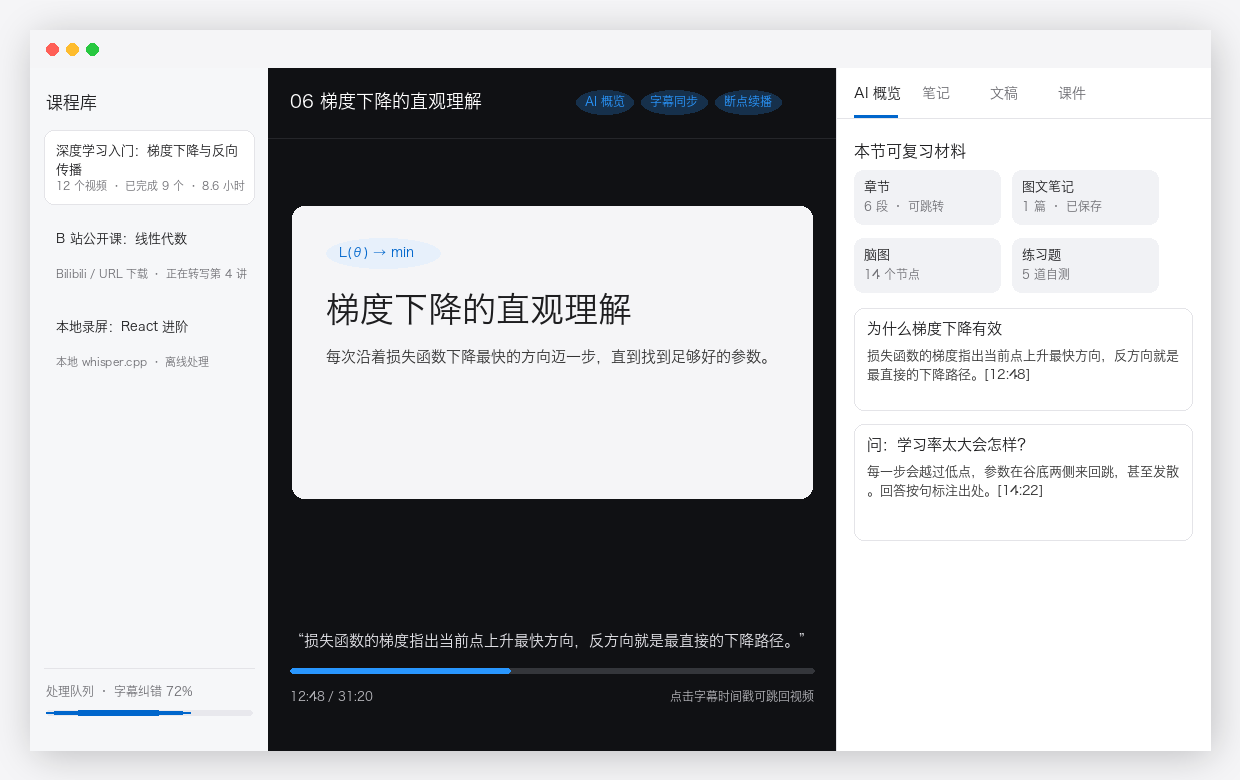
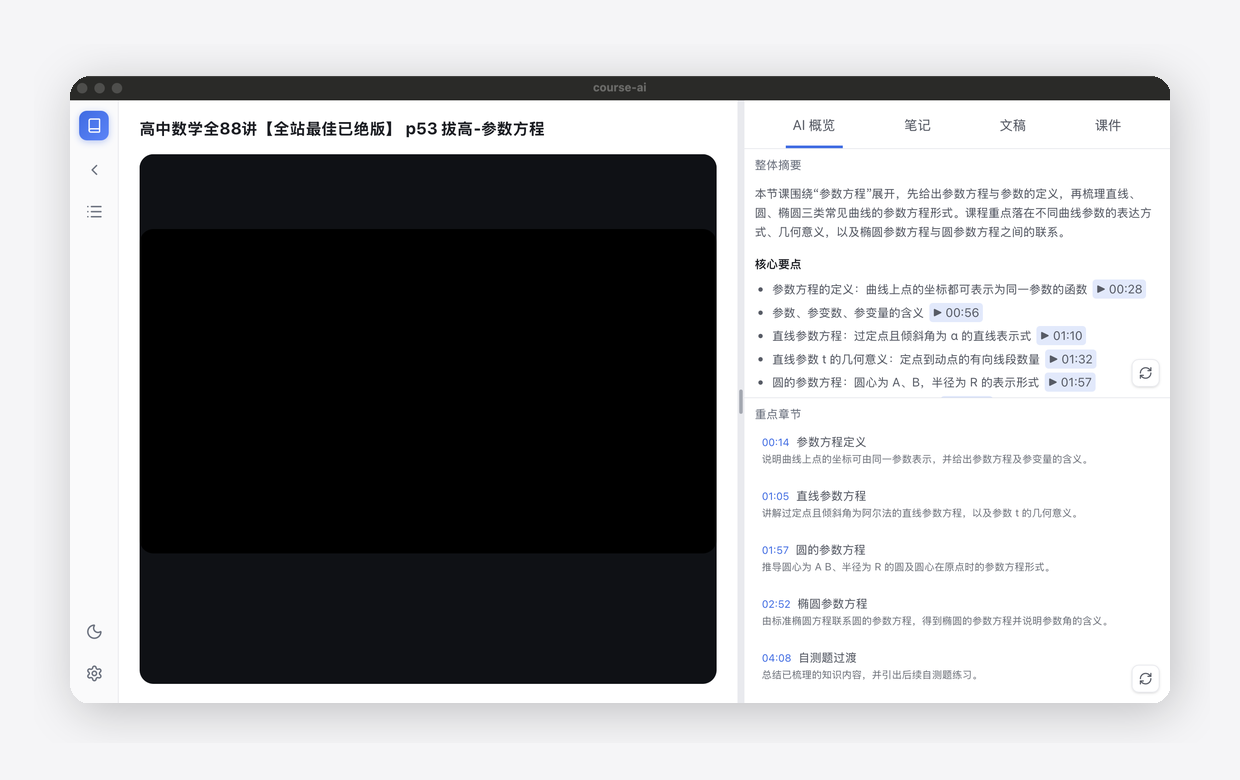
feat(site): use real product screenshots

diff --git a/website/generate_mock_screenshots.py b/website/generate_mock_screenshots.py
@@ -1,254 +1,99 @@
 from __future__ import annotations
 
 from pathlib import Path
-from textwrap import wrap
 
 from PIL import Image, ImageDraw, ImageFilter, ImageFont
 
 
 ROOT = Path(__file__).resolve().parent
-FONT_REGULAR = "/System/Library/Fonts/Hiragino Sans GB.ttc"
-FONT_DISPLAY = "/System/Library/Fonts/Hiragino Sans GB.ttc"
-FONT_MONO = "/System/Library/Fonts/SFNSMono.ttf"
-
-PRIMARY = "#0066cc"
-PRIMARY_DARK = "#2997ff"
-INK = "#1d1d1f"
-MUTED = "#6e6e73"
-CANVAS = "#ffffff"
+REAL = ROOT / "real-screenshots"
 PARCHMENT = "#f5f5f7"
-LINE = "#e4e4e8"
-SOFT = "#f1f2f5"
-BLACK_PANEL = "#101114"
+TILE = "#272729"
+INK = "#1d1d1f"
+PRIMARY = "#0066cc"
+FONT = "/System/Library/Fonts/Hiragino Sans GB.ttc"
 
 
-def font(size: int, weight: str = "regular") -> ImageFont.FreeTypeFont:
-    path = FONT_DISPLAY if weight == "display" else FONT_REGULAR
-    if weight == "mono":
-        path = FONT_MONO
-    return ImageFont.truetype(path, size)
+def face(size: int) -> ImageFont.FreeTypeFont:
+    return ImageFont.truetype(FONT, size)
 
 
-def rounded(draw: ImageDraw.ImageDraw, box, radius: int, fill, outline=None, width: int = 1):
-    draw.rounded_rectangle(box, radius=radius, fill=fill, outline=outline, width=width)
+def cover(image: Image.Image, size: tuple[int, int]) -> Image.Image:
+    image = image.convert("RGB")
+    scale = max(size[0] / image.width, size[1] / image.height)
+    resized = image.resize((round(image.width * scale), round(image.height * scale)), Image.Resampling.LANCZOS)
+    left = (resized.width - size[0]) // 2
+    top = (resized.height - size[1]) // 2
+    return resized.crop((left, top, left + size[0], top + size[1]))
 
 
-def text(draw: ImageDraw.ImageDraw, xy, value: str, size: int, fill=INK, weight: str = "regular", anchor=None):
-    draw.text(xy, value, font=font(size, weight), fill=fill, anchor=anchor)
+def contain(image: Image.Image, max_size: tuple[int, int]) -> Image.Image:
+    image = image.convert("RGB")
+    scale = min(max_size[0] / image.width, max_size[1] / image.height)
+    return image.resize((round(image.width * scale), round(image.height * scale)), Image.Resampling.LANCZOS)
 
 
-def wrap_by_width(value: str, face: ImageFont.FreeTypeFont, max_width: int) -> list[str]:
-    lines: list[str] = []
-    current = ""
-    for char in value:
-        candidate = current + char
-        if current and draw_probe.textlength(candidate, font=face) > max_width:
-            lines.append(current)
-            current = char
-        else:
-            current = candidate
-    if current:
-        lines.append(current)
-    return lines
-
-
-draw_probe = ImageDraw.Draw(Image.new("RGB", (1, 1)))
-
-
-def wrapped_text(draw: ImageDraw.ImageDraw, xy, value: str, size: int, max_width: int, fill=INK, spacing: int = 6):
+def paste_with_shadow(canvas: Image.Image, image: Image.Image, xy: tuple[int, int], radius: int = 28) -> None:
     x, y = xy
-    face = font(size)
-    for line in wrap_by_width(value, face, max_width):
-        draw.text((x, y), line, font=font(size), fill=fill)
-        y += size + spacing
-    return y
-
-
-def shadowed_window(size=(1180, 720), radius=18):
-    w, h = size
-    pad = 34
-    shadow = Image.new("RGBA", (w + pad * 2, h + pad * 2), (0, 0, 0, 0))
-    mask = Image.new("L", (w + pad * 2, h + pad * 2), 0)
-    mdraw = ImageDraw.Draw(mask)
-    mdraw.rounded_rectangle((pad, pad, pad + w, pad + h), radius=radius, fill=255)
-    blur = mask.filter(ImageFilter.GaussianBlur(18))
+    shadow = Image.new("RGBA", (image.width + 80, image.height + 80), (0, 0, 0, 0))
+    mask = Image.new("L", shadow.size, 0)
+    mask_draw = ImageDraw.Draw(mask)
+    mask_draw.rounded_rectangle((40, 40, 40 + image.width, 40 + image.height), radius=radius, fill=255)
+    blurred = mask.filter(ImageFilter.GaussianBlur(22))
     shadow_draw = ImageDraw.Draw(shadow)
-    shadow_draw.bitmap((3, 5), blur, fill=(0, 0, 0, 56))
-    window = Image.new("RGBA", (w, h), CANVAS)
-    shadow.alpha_composite(window, (pad, pad))
-    return shadow
+    shadow_draw.bitmap((4, 8), blurred, fill=(0, 0, 0, 55))
+
+    rounded = Image.new("RGBA", image.size, (0, 0, 0, 0))
+    rounded_mask = Image.new("L", image.size, 0)
+    rounded_draw = ImageDraw.Draw(rounded_mask)
+    rounded_draw.rounded_rectangle((0, 0, image.width, image.height), radius=radius, fill=255)
+    rounded.paste(image.convert("RGBA"), (0, 0), rounded_mask)
+
+    canvas.alpha_composite(shadow, (x - 40, y - 40))
+    canvas.alpha_composite(rounded, (x, y))
 
 
-def draw_window_chrome(draw: ImageDraw.ImageDraw, x: int, y: int, w: int):
-    rounded(draw, (x, y, x + w, y + 38), 0, "#f5f5f7")
-    draw.line((x, y + 38, x + w, y + 38), fill=LINE, width=1)
-    for i, color in enumerate(["#ff5f57", "#febc2e", "#28c840"]):
-        draw.ellipse((x + 16 + i * 20, y + 13, x + 28 + i * 20, y + 25), fill=color)
+def promo_from_real(source_name: str, output_name: str, background: str) -> None:
+    source = Image.open(REAL / source_name)
+    canvas = Image.new("RGBA", (1240, 780), background)
+    shot = contain(source, (1100, 650))
+    paste_with_shadow(canvas, shot, ((canvas.width - shot.width) // 2, (canvas.height - shot.height) // 2), radius=20)
+    canvas.convert("RGB").save(ROOT / output_name)
 
 
-def draw_sidebar(draw: ImageDraw.ImageDraw, x: int, y: int, w: int, h: int, mode: str):
-    draw.rectangle((x, y, x + w, y + h), fill="#f6f7f9")
-    draw.line((x + w, y, x + w, y + h), fill=LINE)
-    text(draw, (x + 16, y + 26), "课程库" if mode == "hero" else "资料", 17, weight="display")
-    cards = (
-        [
-            ("深度学习入门：梯度下降与反向传播", "12 个视频 · 已完成 9 个 · 8.6 小时"),
-            ("B 站公开课：线性代数", "Bilibili / URL 下载 · 正在转写第 4 讲"),
-            ("本地录屏：React 进阶", "本地 whisper.cpp · 离线处理"),
-        ]
-        if mode == "hero"
-        else [
-            ("课件截图", "课件 18 / 32 · 自动换页"),
-            ("文稿", "1,246 句 · 本地搜索"),
-            ("导出", "导出 Markdown · SRT / VTT / SVG"),
-        ]
-    )
-    cy = y + 62
-    for idx, (title, sub) in enumerate(cards):
-        fill = CANVAS if idx == 0 else "#f6f7f9"
-        outline = LINE if idx == 0 else "#f6f7f9"
-        rounded(draw, (x + 14, cy, x + w - 14, cy + 74), 10, fill, outline)
-        wrapped_text(draw, (x + 26, cy + 13), title, 13, w - 52, INK)
-        text(draw, (x + 26, cy + 50), sub, 11, MUTED)
-        cy += 88
-    if mode == "hero":
-        qy = y + h - 82
-        draw.line((x + 14, qy, x + w - 14, qy), fill=LINE)
-        text(draw, (x + 16, qy + 17), "处理队列 · 字幕纠错 72%", 12, MUTED)
-        rounded(draw, (x + 16, qy + 42, x + w - 16, qy + 47), 99, "#e8e8ed")
-        rounded(draw, (x + 16, qy + 42, x + 160, qy + 47), 99, PRIMARY)
-
-
-def draw_slide(draw: ImageDraw.ImageDraw, box, title: str, body: str, pill: str):
-    x1, y1, x2, y2 = box
-    rounded(draw, box, 12, PARCHMENT)
-    rounded(draw, (x1 + 34, y1 + 32, x1 + 148, y1 + 62), 99, "#e7f0fb")
-    text(draw, (x1 + 47, y1 + 39), pill, 13, PRIMARY, weight="display")
-    text(draw, (x1 + 34, y1 + 86), title, 34, weight="display")
-    wrapped_text(draw, (x1 + 34, y1 + 142), body, 15, x2 - x1 - 68, "#333333")
-
-
-def draw_player(draw: ImageDraw.ImageDraw, x: int, y: int, w: int, h: int, mode: str):
-    draw.rectangle((x, y, x + w, y + h), fill=BLACK_PANEL)
-    head_h = 70
-    draw.line((x, y + head_h, x + w, y + head_h), fill="#25262a")
-    title = "06 梯度下降的直观理解" if mode == "hero" else "18 反向传播：链式法则"
-    text(draw, (x + 22, y + 24), title, 18, "#ffffff", weight="display")
-    badges = ["AI 概览", "字幕同步", "断点续播"] if mode == "hero" else ["截图 OCR", "课件抽取"]
-    bx = x + w - 260
-    for badge in badges:
-        tw = int(draw.textlength(badge, font=font(12))) + 18
-        rounded(draw, (bx, y + 22, bx + tw, y + 46), 99, "#16304b")
-        text(draw, (bx + 9, y + 27), badge, 12, PRIMARY_DARK, weight="display")
-        bx += tw + 8
-    slide_w, slide_h = 520, 292
-    sx = x + (w - slide_w) // 2
-    sy = y + 138
-    if mode == "hero":
-        draw_slide(draw, (sx, sy, sx + slide_w, sy + slide_h), "梯度下降的直观理解", "每次沿着损失函数下降最快的方向迈一步，直到找到足够好的参数。", "L(θ) → min")
-        caption = "“损失函数的梯度指出当前点上升最快方向，反方向就是最直接的下降路径。”"
-        progress = 0.42
-        left = "12:48 / 31:20"
-        right = "点击字幕时间戳可跳回视频"
-    else:
-        draw_slide(draw, (sx, sy, sx + slide_w, sy + slide_h), "反向传播：链式法则", "从输出层向输入层逐层传递梯度，复用中间节点的局部导数。", "Screenshot OCR")
-        caption = "截图已插入笔记 · OCR 识别 38 个字 · 与字幕时间点绑定"
-        progress = 0.66
-        left = "课件 18 / 32"
-        right = "自动抽帧 · 框选截图 · 本地或阿里云 OCR"
-    cy = y + h - 118
-    text(draw, (x + w // 2, cy), caption, 15, "#e8e8ed", anchor="ma")
-    rounded(draw, (x + 22, cy + 36, x + w - 22, cy + 41), 99, "#34363b")
-    rounded(draw, (x + 22, cy + 36, x + 22 + int((w - 44) * progress), cy + 41), 99, PRIMARY_DARK)
-    text(draw, (x + 22, cy + 58), left, 12, "#b8b8bd")
-    text(draw, (x + w - 22, cy + 58), right, 12, "#b8b8bd", anchor="ra")
-
-
-def draw_tabs(draw: ImageDraw.ImageDraw, x: int, y: int, w: int, active: str):
-    tabs = ["AI 概览", "笔记", "文稿", "课件"]
-    tx = x + 18
-    for tab in tabs:
-        fill = INK if tab == active else MUTED
-        text(draw, (tx, y + 17), tab, 14, fill, weight="display")
-        if tab == active:
-            draw.line((tx, y + 48, tx + 43, y + 48), fill=PRIMARY, width=3)
-        tx += 68
-    draw.line((x, y + 50, x + w, y + 50), fill=LINE)
-
-
-def draw_card(draw, box, title, body):
-    rounded(draw, box, 10, CANVAS, LINE)
-    x1, y1, x2, _ = box
-    text(draw, (x1 + 13, y1 + 12), title, 15, weight="display")
-    wrapped_text(draw, (x1 + 13, y1 + 40), body, 13, x2 - x1 - 26, "#333333")
-
-
-def draw_panel(draw: ImageDraw.ImageDraw, x: int, y: int, w: int, h: int, mode: str):
-    draw.rectangle((x, y, x + w, y + h), fill=CANVAS)
-    draw.line((x, y, x, y + h), fill=LINE)
-    draw_tabs(draw, x, y, w, "AI 概览" if mode == "hero" else "笔记")
-    py = y + 74
-    if mode == "hero":
-        text(draw, (x + 18, py), "本节可复习材料", 16, weight="display")
-        labels = [("章节", "6 段 · 可跳转"), ("图文笔记", "1 篇 · 已保存"), ("脑图", "14 个节点"), ("练习题", "5 道自测")]
-        lx, ly = x + 18, py + 28
-        for i, (a, b) in enumerate(labels):
-            bx = lx + (i % 2) * 158
-            by = ly + (i // 2) * 68
-            rounded(draw, (bx, by, bx + 146, by + 54), 9, SOFT)
-            text(draw, (bx + 10, by + 9), a, 13, weight="display")
-            text(draw, (bx + 10, by + 30), b, 12, MUTED)
-        draw_card(draw, (x + 18, py + 166, x + w - 18, py + 268), "为什么梯度下降有效", "损失函数的梯度指出当前点上升最快方向，反方向就是最直接的下降路径。[12:48]")
-        draw_card(draw, (x + 18, py + 282, x + w - 18, py + 398), "问：学习率太大会怎样？", "每一步会越过低点，参数在谷底两侧来回跳，甚至发散。回答按句标注出处。[14:22]")
-    else:
-        text(draw, (x + 18, py), "图文笔记", 16, weight="display")
-        draw_card(draw, (x + 18, py + 28, x + w - 18, py + 130), "反向传播的关键", "把复杂函数拆成局部计算图，沿计算图反向累乘梯度。截图已和字幕时间点绑定。[18:06]")
-        draw_card(draw, (x + 18, py + 144, x + w - 18, py + 238), "文稿命中", "“链式法则让我们不用重新计算每一个参数的影响，而是复用中间节点的局部导数……” [18:06]")
-        tx, ty = x + 18, py + 260
-        for i, title in enumerate(["16 损失函数", "17 计算图", "18 链式法则", "19 参数更新"]):
-            bx = tx + (i % 2) * 188
-            by = ty + (i // 2) * 102
-            rounded(draw, (bx, by, bx + 176, by + 86), 9, PARCHMENT, LINE)
-            text(draw, (bx + 12, by + 14), title, 12, weight="display")
-            rounded(draw, (bx + 12, by + 43, bx + 136, by + 49), 99, "#dcdce1")
-            rounded(draw, (bx + 12, by + 59, bx + 108, by + 65), 99, "#dcdce1")
-
-
-def render_app(mode: str, canvas_size=(1240, 780), dark=False) -> Image.Image:
-    canvas = Image.new("RGBA", canvas_size, "#272729" if dark else PARCHMENT)
-    win = shadowed_window()
-    x = (canvas_size[0] - win.width) // 2
-    y = (canvas_size[1] - win.height) // 2
-    canvas.alpha_composite(win, (x, y))
+def render_og() -> None:
+    canvas = Image.new("RGBA", (1200, 630), PARCHMENT)
     draw = ImageDraw.Draw(canvas)
-    wx, wy = x + 34, y + 34
-    draw_window_chrome(draw, wx, wy, 1180)
-    body_y = wy + 38
-    sidebar_w = 238 if mode == "hero" else 220
-    panel_w = 374 if mode == "hero" else 430
-    player_w = 1180 - sidebar_w - panel_w
-    draw_sidebar(draw, wx, body_y, sidebar_w, 682, mode)
-    draw_player(draw, wx + sidebar_w, body_y, player_w, 682, mode)
-    draw_panel(draw, wx + sidebar_w + player_w, body_y, panel_w, 682, mode)
-    return canvas.convert("RGB")
+    draw.text((66, 92), "CoursePilot", font=face(28), fill=PRIMARY)
+    draw.text((66, 156), "把课程视频变成", font=face(46), fill=INK)
+    draw.text((66, 216), "可复习资料。", font=face(46), fill=INK)
+    draw.text((66, 348), "真实工作台截图：AI 概览、图文笔记、", font=face(20), fill="#333333")
+    draw.text((66, 382), "脑图、出题和课程问答。", font=face(20), fill="#333333")
 
-
-def render_og() -> Image.Image:
-    img = Image.new("RGBA", (1200, 630), PARCHMENT)
-    draw = ImageDraw.Draw(img)
-    text(draw, (66, 96), "CoursePilot", 26, PRIMARY, weight="display")
-    wrapped_text(draw, (66, 154), "把课程视频变成可复习资料。", 50, 420, INK, spacing=10)
-    wrapped_text(draw, (66, 330), "字幕、章节、笔记、课件截图、课程问答，都围绕同一节课展开。", 22, 410, "#333333", spacing=8)
-    app = render_app("hero").resize((560, 352), Image.Resampling.LANCZOS)
-    img.alpha_composite(app.convert("RGBA"), (590, 154))
-    return img.convert("RGB")
+    overview = contain(Image.open(REAL / "ai-overview.png"), (510, 292))
+    notes = contain(Image.open(REAL / "notes.png"), (388, 222))
+    paste_with_shadow(canvas, overview, (632, 96), radius=18)
+    paste_with_shadow(canvas, notes, (740, 344), radius=18)
+    canvas.convert("RGB").save(ROOT / "og-image.png")
 
 
 def main() -> None:
-    render_app("hero").save(ROOT / "promo-hero.png")
-    render_app("workbench", dark=True).save(ROOT / "promo-workbench.png")
-    render_og().save(ROOT / "og-image.png")
-    print("generated realistic mock screenshots")
+    required = [
+        "ai-overview.png",
+        "notes.png",
+        "quiz.png",
+        "mindmap.png",
+        "transcript.png",
+        "qa.png",
+    ]
+    missing = [name for name in required if not (REAL / name).exists()]
+    if missing:
+        raise SystemExit(f"missing real screenshots: {missing}")
+
+    promo_from_real("ai-overview.png", "promo-hero.png", PARCHMENT)
+    promo_from_real("notes.png", "promo-workbench.png", TILE)
+    render_og()
+    print("generated realistic screenshots from real CoursePilot UI")
 
 
 if __name__ == "__main__":

diff --git a/website/check_site.py b/website/check_site.py
@@ -55,8 +55,10 @@ if studio_missing:
     raise SystemExit(f"Missing screenshot studio mock data: {studio_missing}")
 
 generator_required_text = [
-    "generated realistic mock screenshots",
-    "深度学习入门：梯度下降与反向传播",
+    "generated realistic screenshots from real CoursePilot UI",
+    "real-screenshots",
+    "ai-overview.png",
+    "notes.png",
     "promo-hero.png",
     "promo-workbench.png",
     "og-image.png",
@@ -65,6 +67,13 @@ generator_required_text = [
 generator_missing = [text for text in generator_required_text if text not in generator]
 if generator_missing:
     raise SystemExit(f"Missing screenshot generator content: {generator_missing}")
+
+for source in ["ai-overview.png", "notes.png", "quiz.png", "mindmap.png", "transcript.png", "qa.png"]:
+    path = root / "real-screenshots" / source
+    if not path.exists() or path.stat().st_size < 10_000:
+        raise SystemExit(f"Missing or tiny real screenshot source: {source}")
+    if path.read_bytes()[:8] != b"\x89PNG\r\n\x1a\n":
+        raise SystemExit(f"Real screenshot source is not a PNG file: {source}")
 
 for asset in ["promo-hero.png", "promo-workbench.png", "og-image.png"]:
     path = root / asset

diff --git a/website/README.md b/website/README.md
@@ -11,13 +11,19 @@ python3 -m http.server 8000   # 然后打开 http://localhost:8000
 
 ## 宣传截图资产
 
-当前主页直接引用三张由 `screenshot-studio.html` 生成的真实 UI 模拟宣传图：
+当前主页直接引用三张由真实 CoursePilot UI 截图生成的宣传图：
 
 - `promo-hero.png`：首屏产品介绍图。
 - `promo-workbench.png`：工作台 / 课件 / OCR 联动介绍图。
 - `og-image.png`：Open Graph / 社交分享卡片，`index.html` 的 `og:image` 指向它。
 
-重新生成时，先启动本地静态服务，再打开 `screenshot-studio.html`，分别截图 `#hero-shot`、`#workbench-shot` 和 `#og-shot`。这个 studio 页面填入了模拟课程、字幕、笔记、课件、OCR、问答和导出数据，只作为宣传截图源使用。
+原始截图保存在 `real-screenshots/`，包括 AI 概览、笔记、出题、脑图、文稿和提问界面。重新生成时运行：
+
+```bash
+python3 website/generate_mock_screenshots.py
+```
+
+`screenshot-studio.html` 仍保留为备用的静态模拟截图源，但当前宣传图优先使用真实产品截图。
 
 ## 动效
 